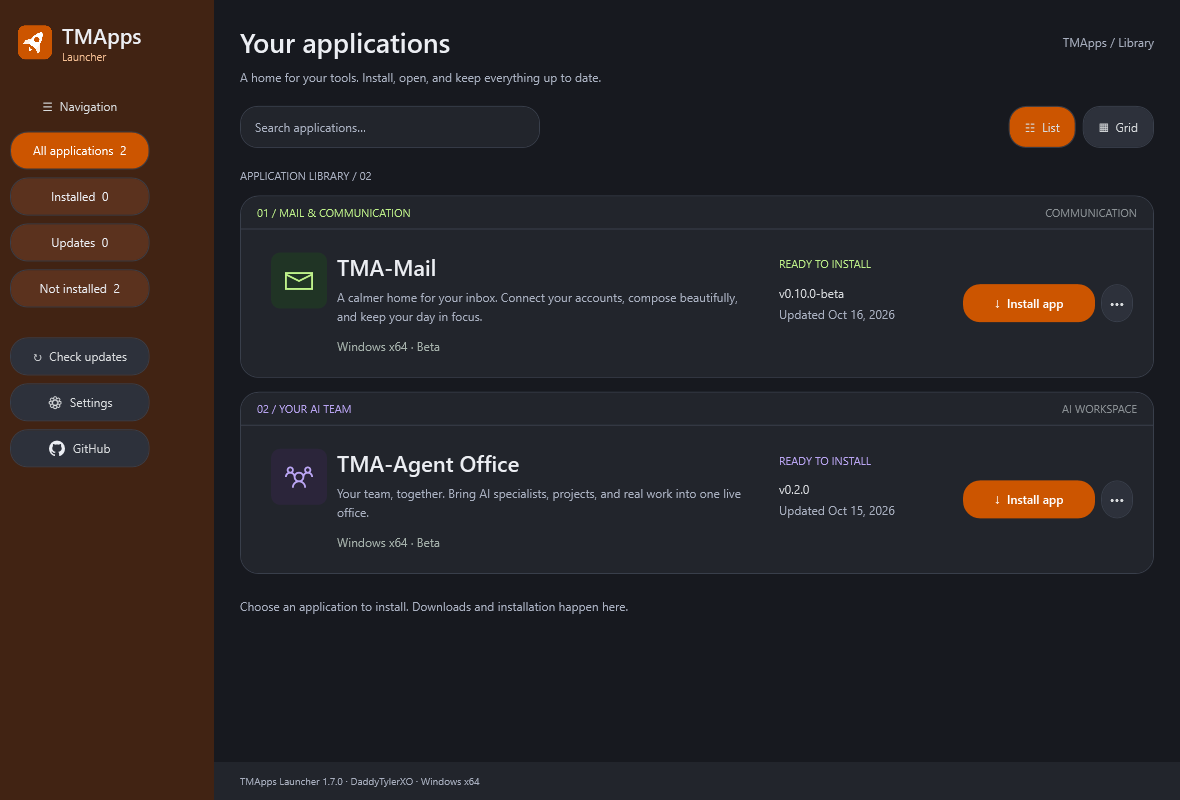
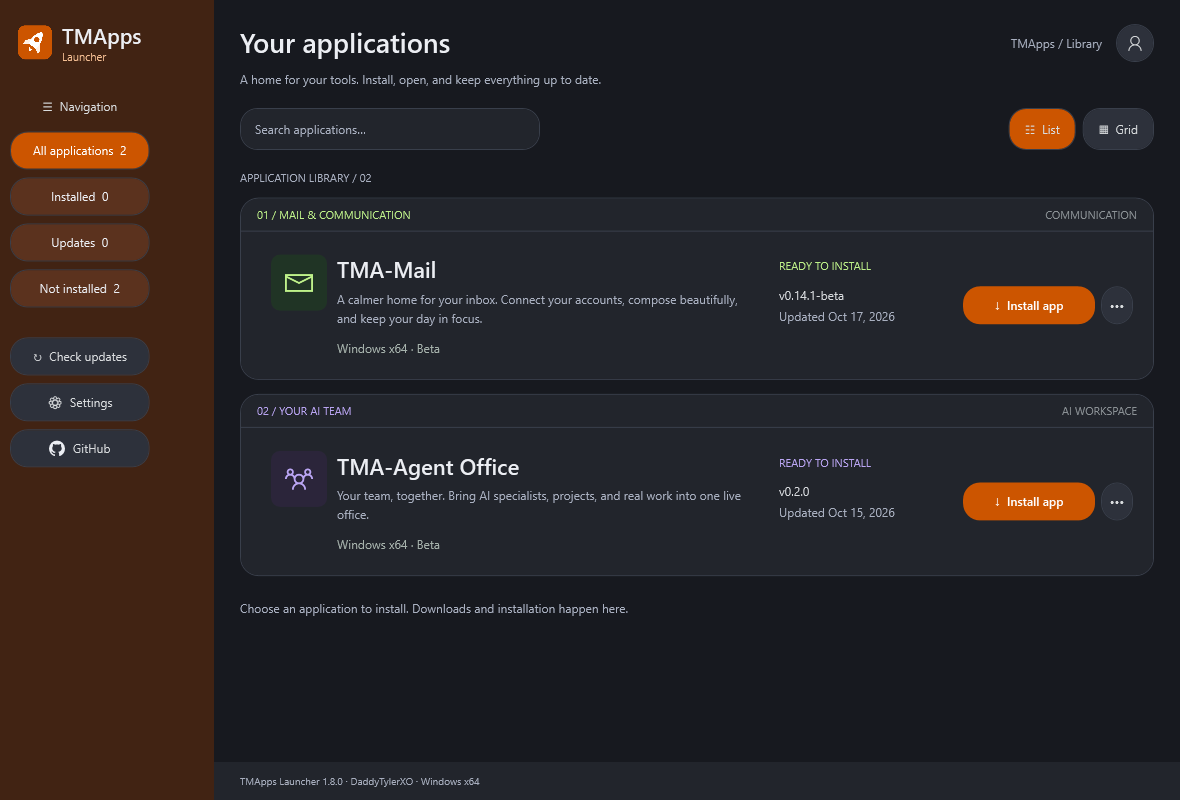
Add optional suite profile and local TMA-Mail identity sync

diff --git a/src/MainWindow.xaml b/src/MainWindow.xaml
@@ -62,7 +62,7 @@
   <Grid>
    <Grid.RowDefinitions><RowDefinition Height="Auto"/><RowDefinition Height="*"/><RowDefinition Height="38"/></Grid.RowDefinitions>
    <StackPanel Margin="26,24,26,20">
-    <DockPanel><TextBlock Text="Your applications" FontSize="27" FontWeight="SemiBold"/><TextBlock Text="TMApps / Library" Foreground="#A9B0C0" VerticalAlignment="Center" HorizontalAlignment="Right"/></DockPanel>
+    <DockPanel LastChildFill="True"><Button x:Name="ProfileButton" DockPanel.Dock="Right" Width="38" Height="38" Padding="0" Margin="14,0,0,0" ToolTip="Your optional profile" AutomationProperties.Name="Your optional TMApps profile"><Button.Template><ControlTemplate TargetType="Button"><Border CornerRadius="19" Background="{TemplateBinding Background}" BorderBrush="{TemplateBinding BorderBrush}" BorderThickness="1"><ContentPresenter HorizontalAlignment="Center" VerticalAlignment="Center"/></Border><ControlTemplate.Triggers><Trigger Property="IsMouseOver" Value="True"><Setter Property="BorderBrush" Value="#CC5500"/></Trigger><Trigger Property="IsKeyboardFocused" Value="True"><Setter Property="BorderBrush" Value="#CC5500"/></Trigger></ControlTemplate.Triggers></ControlTemplate></Button.Template><TextBlock x:Name="ProfileInitial" Text="&#xE77B;" FontFamily="Segoe MDL2 Assets" FontSize="15"/></Button><TextBlock Text="TMApps / Library" DockPanel.Dock="Right" Foreground="#A9B0C0" VerticalAlignment="Center"/><TextBlock Text="Your applications" FontSize="27" FontWeight="SemiBold"/></DockPanel>
     <TextBlock Text="A home for your tools. Install, open, and keep everything up to date." Foreground="#A9B0C0" FontSize="12" Margin="0,9,0,21"/>
     <Grid Height="42"><Grid.ColumnDefinitions><ColumnDefinition/><ColumnDefinition Width="Auto"/></Grid.ColumnDefinitions>
      <Grid Margin="0,0,20,0" MaxWidth="360" HorizontalAlignment="Left" Width="300"><TextBox x:Name="Search" ToolTip="Search applications" AutomationProperties.Name="Search applications"/><TextBlock Text="Search applications…" Foreground="#A9B0C0" VerticalAlignment="Center" Margin="15,0" IsHitTestVisible="False"><TextBlock.Style><Style TargetType="TextBlock"><Setter Property="Visibility" Value="Collapsed"/><Style.Triggers><DataTrigger Binding="{Binding Text, ElementName=Search}" Value=""><Setter Property="Visibility" Value="Visible"/></DataTrigger></Style.Triggers></Style></TextBlock.Style></TextBlock></Grid>
@@ -75,7 +75,7 @@
     <TextBlock x:Name="Empty" Text="No applications match this view." Foreground="#A9B0C0" Visibility="Collapsed" Margin="0,25"/>
     <TextBlock x:Name="Notice" Text="Choose an application to install." Foreground="#A9B0C0" TextWrapping="Wrap" FontSize="12" Margin="0,10,0,0"/>
    </StackPanel></ScrollViewer>
-   <Border Grid.Row="2" Background="#22252C" Padding="26,0"><TextBlock x:Name="Footer" Text="TMApps Launcher 1.7.0 · DaddyTylerXO · Windows x64" Foreground="#A9B0C0" FontSize="10" VerticalAlignment="Center"/></Border>
+   <Border Grid.Row="2" Background="#22252C" Padding="26,0"><TextBlock x:Name="Footer" Text="TMApps Launcher 1.8.0 · DaddyTylerXO · Windows x64" Foreground="#A9B0C0" FontSize="10" VerticalAlignment="Center"/></Border>
   </Grid>
  </DockPanel>
 </Window>

diff --git a/tests/Tests.cs b/tests/Tests.cs
@@ -34,7 +34,7 @@ namespace TMApps {
             public LauncherRelease Release; public byte[] Installer; public bool FailManifest; public int Downloads;
             protected override Task<HttpResponseMessage> SendAsync(HttpRequestMessage request,CancellationToken token) {
                 token.ThrowIfCancellationRequested(); string path=request.RequestUri.AbsolutePath;
-                if(path.EndsWith("/releases/tags/tma-apps")) return Task.FromResult(new HttpResponseMessage(HttpStatusCode.OK) { Content=new StringContent("{\"assets\":[{\"name\":\"launcher-update.json\",\"id\":10},{\"name\":\"TMApps-Launcher-Setup-1.7.0.exe\",\"id\":11}]}") });
+                if(path.EndsWith("/releases/tags/tma-apps")) return Task.FromResult(new HttpResponseMessage(HttpStatusCode.OK) { Content=new StringContent("{\"assets\":[{\"name\":\"launcher-update.json\",\"id\":10},{\"name\":\"TMApps-Launcher-Setup-1.8.0.exe\",\"id\":11}]}") });
                 bool manifest=path.EndsWith("launcher-update.json") || path.EndsWith("/assets/10");
                 if(manifest) return Task.FromResult(new HttpResponseMessage(FailManifest ? HttpStatusCode.ServiceUnavailable : HttpStatusCode.OK) { Content=new StringContent(LauncherService.Json.Serialize(Release)) });
                 Downloads++;
@@ -124,6 +124,7 @@ namespace TMApps {
                 string staleCatalog=original.Replace(catalog.apps[0].version,"0.9.2-beta");
                 var updateHandler=new CatalogHandler { Shared=staleCatalog };
                 using(var updates=new LauncherService(Path.Combine(root,"updates"),updateHandler)) {
+                    LauncherService.AtomicWrite(Path.Combine(root,"updates","catalog.json"),staleCatalog);
                     var refreshed=updates.Refresh(CancellationToken.None).GetAwaiter().GetResult(); var mail=refreshed.apps.First(a=>a.id=="tma-mail");
                     Check(mail.version=="0.10.0-beta" && mail.sha256==new string('b',64) && mail.downloadUrl.Contains(new string('a',40)),"Branch manifest discovers Mail 0.10 with commit-pinned archive and checksum despite stale shared catalog");
                     updateHandler.Shared=staleCatalog.Replace("0.9.2-beta","9.0.0");
@@ -139,6 +140,7 @@ namespace TMApps {
                 }
                 var branchOnly=new CatalogHandler { FailShared=true,Shared=staleCatalog };
                 using(var updates=new LauncherService(Path.Combine(root,"branch-only"),branchOnly)) {
+                    LauncherService.AtomicWrite(Path.Combine(root,"branch-only","catalog.json"),staleCatalog);
                     Check(updates.Refresh(CancellationToken.None).GetAwaiter().GetResult().apps[0].version=="0.10.0-beta","Mail branch can refresh when shared release catalog is unavailable");
                     branchOnly.FailBranch=true; Reject(()=>updates.Refresh(CancellationToken.None).GetAwaiter().GetResult(),"Failed update sources never report a successful check");
                 }
@@ -290,20 +292,20 @@ namespace TMApps {
                 string shortcut=Path.Combine(standalone,"Launcher.lnk"); DesktopIntegration.CreateShortcut(shortcut,exe);
                 Check(File.Exists(shortcut) && BitConverter.ToInt32(File.ReadAllBytes(shortcut),0)==76,"Windows desktop/Start menu shortcut helper creates a real shell link");
                 Check(DesktopIntegration.ShortcutTargets(shortcut,exe),"Desktop shortcut target can be verified before removing a launcher-managed icon");
-                Check(new AppView { Info = catalog.apps[0] }.UpdatedLabel == "Oct 16, 2026", "App update date displayed from metadata");
+                Check(new AppView { Info = new AppInfo { updatedAt="2026-10-16T22:53:40Z" } }.UpdatedLabel == "Oct 16, 2026", "App update date displayed from metadata");
                 using (var embedded = new LauncherService(Path.Combine(root,"embedded-profile"))) Check(embedded.LoadCatalog().apps.Count == 2, "Embedded catalog fallback works without source files");
                 string installerRoot=Path.Combine(root,"installer");
                 var installStart=new System.Diagnostics.ProcessStartInfo(Path.Combine(args[0],"build","TMApps-Launcher-Setup.exe"),"--verify-install \""+installerRoot+"\"") { UseShellExecute=false,CreateNoWindow=true };
                 using(var process=System.Diagnostics.Process.Start(installStart)) { if(!process.WaitForExit(20000)) { process.Kill(); throw new Exception("Installer verification timed out"); } Check(process.ExitCode==0 && File.ReadAllText(Path.Combine(installerRoot,"installer-report.txt")).StartsWith("OK:"),"Real installer writes payload, saves options, launches installed EXE, and preserves data on uninstall"); }
                 byte[] installerBytes=File.ReadAllBytes(Path.Combine(args[0],"build","TMApps-Launcher-Setup.exe"));
                 string setupHash; using(var sha=SHA256.Create()) setupHash=BitConverter.ToString(sha.ComputeHash(installerBytes)).Replace("-","").ToLowerInvariant();
-                var release=new LauncherRelease { schemaVersion=1,version="1.7.0",downloadUrl="https://github.com/DaddyTylerXO/TMApps/releases/download/tma-apps/TMApps-Launcher-Setup-1.7.0.exe",sha256=setupHash };
+                var release=new LauncherRelease { schemaVersion=1,version="1.8.0",downloadUrl="https://github.com/DaddyTylerXO/TMApps/releases/download/tma-apps/TMApps-Launcher-Setup-1.8.0.exe",sha256=setupHash };
                 var launcherHandler=new LauncherUpdateHandler { Release=release,Installer=installerBytes };
                 using(var updater=new LauncherService(Path.Combine(root,"launcher-updates"),launcherHandler)) {
-                    Check(updater.CheckLauncherUpdate("1.6.0",CancellationToken.None).GetAwaiter().GetResult().version=="1.7.0","Launcher check discovers a newer launcher independently of app catalog");
-                    Check(updater.CheckLauncherUpdate("1.7.0",CancellationToken.None).GetAwaiter().GetResult()==null && updater.CheckLauncherUpdate("1.8.0",CancellationToken.None).GetAwaiter().GetResult()==null,"Launcher check skips current versions and never downgrades");
+                    Check(updater.CheckLauncherUpdate("1.6.0",CancellationToken.None).GetAwaiter().GetResult().version=="1.8.0","Launcher check discovers a newer launcher independently of app catalog");
+                    Check(updater.CheckLauncherUpdate("1.8.0",CancellationToken.None).GetAwaiter().GetResult()==null && updater.CheckLauncherUpdate("1.9.0",CancellationToken.None).GetAwaiter().GetResult()==null,"Launcher check skips current versions and never downgrades");
                     string downloaded=updater.DownloadLauncherUpdate(release,new QuietProgress(),CancellationToken.None).GetAwaiter().GetResult();
-                    Check(File.Exists(downloaded) && System.Diagnostics.FileVersionInfo.GetVersionInfo(downloaded).FileVersion=="1.7.0.0","Launcher installer download verifies checksum and embedded product version");
+                    Check(File.Exists(downloaded) && System.Diagnostics.FileVersionInfo.GetVersionInfo(downloaded).FileVersion=="1.8.0.0","Launcher installer download verifies checksum and embedded product version");
                     File.Delete(downloaded);
                     launcherHandler.Installer=new byte[]{1,2,3};
                     Reject(()=>updater.DownloadLauncherUpdate(release,new QuietProgress(),CancellationToken.None).GetAwaiter().GetResult(),"Corrupted launcher installer cannot be executed");
@@ -341,6 +343,16 @@ namespace TMApps {
                     var end=DateTime.UtcNow.AddSeconds(10); while(!File.Exists(Path.Combine(handoffRoot,"handoff-report.txt")) && DateTime.UtcNow<end) Thread.Sleep(50);
                     Check(File.Exists(Path.Combine(handoffRoot,"handoff-report.txt")),"Updater waits for parent launcher exit before applying changes");
                 }
+                string sharedPath=Path.Combine(root,"shared-suite","profile.json");
+                Check(TMAppsShared.SuiteProfileStore.Load(sharedPath).emails.Count==0,"Optional profile starts empty without creating a shared file");
+                var suiteFixture=TMAppsShared.SuiteProfileStore.Save(sharedPath,new TMAppsShared.SuiteProfile { displayName="  Example User  ",emails=new System.Collections.Generic.List<string> { "first@example.com","FIRST@example.com","second@example.org" },shareWithMail=true });
+                Check(suiteFixture.displayName=="Example User" && suiteFixture.emails.Count==2 && suiteFixture.revision.Length==32,"Suite profile normalizes name, deduplicates addresses, and generates a sync revision");
+                var loadedProfile=TMAppsShared.SuiteProfileStore.Load(sharedPath);
+                Check(loadedProfile.shareWithMail && loadedProfile.emails[1]=="second@example.org","Shared suite profile saves and reloads multiple addresses");
+                Reject(()=>TMAppsShared.SuiteProfileStore.Save(sharedPath,new TMAppsShared.SuiteProfile { emails=new System.Collections.Generic.List<string> { "invalid address" } }),"Profile rejects invalid emails before writing");
+                Check(TMAppsShared.SuiteProfileStore.Load(sharedPath).revision==suiteFixture.revision,"Rejected profile edit retains the previous saved profile");
+                Reject(()=>TMAppsShared.SuiteProfileStore.Validate(new TMAppsShared.SuiteProfile { displayName="Bad\nName" }),"Profile rejects control characters in names");
+                Check(!File.ReadAllText(sharedPath).Contains("password") && !File.ReadAllText(sharedPath).Contains("token"),"Shared profile contract contains no passwords or auth tokens");
                 var application = new LauncherApplication();
                 SynchronizationContext.SetSynchronizationContext(new System.Windows.Threading.DispatcherSynchronizationContext(System.Windows.Threading.Dispatcher.CurrentDispatcher));
                 string uiRoot=Path.Combine(root,"ui-profile"); Directory.CreateDirectory(uiRoot);
@@ -425,6 +437,23 @@ namespace TMApps {
                 PumpUntil(()=>uiHandler.LauncherChecks>0 && checkUpdates.IsEnabled);
                 Check(launcherPromptSeen,"Real Check for updates button offers a newer launcher in a themed popup");
                 Check(!Directory.Exists(Path.Combine(uiRoot,"updates")),"Declining launcher update performs no installer download");
+                System.Windows.Threading.Dispatcher.CurrentDispatcher.BeginInvoke(new Action(()=> {
+                    var popup=application.Windows.OfType<ThemedDialog>().Single();
+                    popup.Body.Children.OfType<TextBox>().First().Text="Example User";
+                    popup.Body.Children.OfType<TextBox>().Last().Text="first@example.com\nsecond@example.org";
+                    SaveDialog(popup,Path.Combine(args[0],"build","profile-preview.png"));
+                    popup.Actions.Children.OfType<Button>().Last().RaiseEvent(new RoutedEventArgs(Button.ClickEvent));
+                }));
+                var profileButton=(Button)window.FindName("ProfileButton"); profileButton.RaiseEvent(new RoutedEventArgs(Button.ClickEvent,profileButton));
+                var savedProfile=TMAppsShared.SuiteProfileStore.Load(Path.Combine(uiRoot,"shared-profile.json"));
+                Check(savedProfile.displayName=="Example User" && savedProfile.emails.Count==2 && savedProfile.shareWithMail,"Real profile icon opens optional editor and saves the shared profile");
+                Check(((TextBlock)window.FindName("ProfileInitial")).Text=="E","Top-right profile avatar shows the saved name initial");
+                System.Windows.Threading.Dispatcher.CurrentDispatcher.BeginInvoke(new Action(()=> {
+                    var popup=application.Windows.OfType<ThemedDialog>().Single(); popup.Body.Children.OfType<TextBox>().First().Text="Cancelled edit";
+                    popup.Actions.Children.OfType<Button>().First().RaiseEvent(new RoutedEventArgs(Button.ClickEvent));
+                }));
+                profileButton.RaiseEvent(new RoutedEventArgs(Button.ClickEvent,profileButton));
+                Check(TMAppsShared.SuiteProfileStore.Load(Path.Combine(uiRoot,"shared-profile.json")).revision==savedProfile.revision,"Cancelling profile edits leaves sync state unchanged");
                 Console.WriteLine(count + " checks passed. Preview: build/launcher-preview.png");
                 window.Close(); application.Shutdown(); return 0;
             } catch(Exception ex) { Console.Error.WriteLine(ex); return 1; }

diff --git a/src/App.cs b/src/App.cs
@@ -10,8 +10,8 @@ using System.Windows.Controls;
 using System.Windows.Markup;
 using System.Windows.Media;
 
-[assembly: System.Reflection.AssemblyVersion("1.7.0.0")]
-[assembly: System.Reflection.AssemblyFileVersion("1.7.0.0")]
+[assembly: System.Reflection.AssemblyVersion("1.8.0.0")]
+[assembly: System.Reflection.AssemblyFileVersion("1.8.0.0")]
 [assembly: System.Reflection.AssemblyProduct("TMApps Launcher")]
 [assembly: System.Reflection.AssemblyCompany("DaddyTylerXO")]
 [assembly: System.Reflection.AssemblyCopyright("Copyright © DaddyTylerXO 2026")]
@@ -38,6 +38,7 @@ namespace TMApps {
         System.Windows.Forms.NotifyIcon tray; bool quitting; bool trayNoticeShown;
         EventWaitHandle showEvent; RegisteredWaitHandle showRegistration;
         Func<AppInfo,AppInstallOptions> chooseInstallLocation;
+        string suiteProfilePath; TMAppsShared.SuiteProfile suiteProfile; string suiteProfileWarning;
         string filter = "all"; bool listView = true; bool refreshing; bool selfUpdating; readonly CancellationTokenSource lifetime = new CancellationTokenSource();
         T Find<T>(string name) where T : FrameworkElement { return (T)window.FindName(name); }
         [STAThread] public static void Main(string[] args) {
@@ -69,6 +70,8 @@ namespace TMApps {
         internal Window Initialize(string root, System.Net.Http.HttpMessageHandler handler, bool desktop, Func<AppInfo,AppInstallOptions> locationPicker = null, IAppIntegration appIntegration = null) {
             service = new LauncherService(root, handler,appIntegration);
             chooseInstallLocation=locationPicker ?? new Func<AppInfo,AppInstallOptions>(PromptInstallLocation);
+            suiteProfilePath=desktop ? TMAppsShared.SuiteProfileStore.DefaultPath : Path.Combine(root,"shared-profile.json");
+            try { suiteProfile=TMAppsShared.SuiteProfileStore.Load(suiteProfilePath); } catch { suiteProfile=new TMAppsShared.SuiteProfile(); suiteProfileWarning="The saved profile could not be read. You can replace it by saving a new profile."; }
             preferences = DesktopIntegration.LoadPreferences(root);
             window = (Window)XamlReader.Parse(CleanXaml(Bundled.Read("MainWindow.xaml"))); MainWindow = window;
             using (var icon = typeof(Bundled).Assembly.GetManifestResourceStream("TMApps.launcher.ico")) {
@@ -79,6 +82,7 @@ namespace TMApps {
             Find<TextBox>("Search").TextChanged += (s, ev) => Render();
             apps = service.LoadCatalog().apps.Select(a => new AppView { Info = a }).ToList();
             ApplyNavigation(window, preferences); ApplyView(window, preferences.libraryView); listView = preferences.libraryView == "List";
+            UpdateProfileAvatar();
             Render(); Notice("Choose an application to install. Downloads and installation happen here.");
             if (desktop) {
                 SetupTray();
@@ -271,6 +275,7 @@ namespace TMApps {
             e.Handled=true;
             string name = b.Name; string tag = b.Tag as string;
             if(name=="CompactButton") { preferences.compactNavigation=!preferences.compactNavigation; ApplyNavigation(window,preferences); Render(); DesktopIntegration.SavePreferences(service.Root,preferences); return; }
+            if(name=="ProfileButton") { ShowProfile(); return; }
             if(name=="SettingsButton") { Settings(); return; }
             if(name=="GitHubButton") { Browse("https://github.com/DaddyTylerXO/TMApps/tree/TMApps-Launcher"); return; }
             if (name == "RefreshButton") { RefreshCatalog(); return; }
@@ -324,6 +329,32 @@ namespace TMApps {
             } catch(OperationCanceledException) { Notice("Uninstall cancelled."); }
             catch(Exception ex) { ThemedDialogs.Info(window,"Could not uninstall "+app.Name,ex.Message); Notice(ex.Message); }
             finally { app.Busy=false; app.Removing=false; app.Cancellation.Dispose(); app.Cancellation=null; Render(); }
+        }
+        void UpdateProfileAvatar() {
+            string value=!String.IsNullOrWhiteSpace(suiteProfile.displayName) ? suiteProfile.displayName : suiteProfile.emails.FirstOrDefault();
+            var initial=Find<TextBlock>("ProfileInitial");
+            initial.Text=String.IsNullOrEmpty(value) ? "\uE77B" : System.Globalization.StringInfo.GetNextTextElement(value).ToUpperInvariant();
+            initial.FontFamily=new FontFamily(String.IsNullOrEmpty(value) ? "Segoe MDL2 Assets" : "Segoe UI");
+            Find<Button>("ProfileButton").ToolTip=String.IsNullOrEmpty(value) ? "Set up your optional profile" : value+" - Your profile";
+        }
+        internal void ShowProfile() {
+            var dialog=new ThemedDialog(window,"Your TMApps profile","Optional. Save your name and email addresses for your apps on this PC. The first email address is your primary suggestion.");
+            Action<string> label=text=>dialog.Body.Children.Add(new TextBlock { Text=text,FontWeight=FontWeights.SemiBold,Margin=new Thickness(0,10,0,7) });
+            label("Your name"); var name=new TextBox { Name="ProfileName",Text=suiteProfile.displayName,MaxLength=100 }; dialog.Body.Children.Add(name);
+            label("Email addresses (one per line)"); var emails=new TextBox { Name="ProfileEmails",Text=String.Join("\r\n",suiteProfile.emails),AcceptsReturn=true,Height=100,VerticalScrollBarVisibility=ScrollBarVisibility.Auto }; dialog.Body.Children.Add(emails);
+            var share=new CheckBox { Name="ShareWithMail",Content="Sync this profile to TMA-Mail on this PC",IsChecked=suiteProfile.revision==null || suiteProfile.shareWithMail,Margin=new Thickness(0,18,0,12) }; dialog.Body.Children.Add(share);
+            dialog.Body.Children.Add(new TextBlock { Text="This shares only your name and email addresses with TMA-Mail for this Windows user. It does not sign in or connect accounts. TMA-Mail still requires an app-specific password/key for providers such as iCloud, or the provider's own sign-in. Enter those credentials in TMA-Mail, never here.",TextWrapping=TextWrapping.Wrap,Foreground=Brushes.LightGray,FontSize=12 });
+            dialog.Body.Children.Add(new TextBlock { Text="Requires TMA-Mail 0.14.1 or later. Changes appear when Mail opens or shortly afterward while it is running. Disabling sync stops future sharing; it does not disconnect mail accounts or erase an existing Mail profile.",TextWrapping=TextWrapping.Wrap,Foreground=Brushes.LightGray,FontSize=11,Margin=new Thickness(0,10,0,0) });
+            var error=new TextBlock { Text=suiteProfileWarning,TextWrapping=TextWrapping.Wrap,Foreground=Brushes.LightSalmon,Margin=new Thickness(0,8,0,0) }; dialog.Body.Children.Add(error);
+            dialog.AddAction("Cancel",false,()=>dialog.Close(),"CancelAction").IsCancel=true;
+            dialog.AddAction("Save profile",true,()=> {
+                try {
+                    var selected=new TMAppsShared.SuiteProfile { displayName=name.Text,emails=emails.Text.Split(new[]{'\r','\n'},StringSplitOptions.RemoveEmptyEntries).ToList(),shareWithMail=share.IsChecked==true };
+                    suiteProfile=TMAppsShared.SuiteProfileStore.Save(suiteProfilePath,selected); suiteProfileWarning=null; UpdateProfileAvatar(); dialog.DialogResult=true;
+                    Notice(suiteProfile.shareWithMail ? "Profile saved. Compatible TMA-Mail versions will sync your name and account suggestions. Credentials are still required in Mail." : "Profile saved. Sync to TMA-Mail is off.");
+                } catch(Exception ex) { error.Text=ex.Message; }
+            },"ConfirmAction");
+            dialog.ShowDialog();
         }
         void Settings() {
             var original=LauncherService.Json.Deserialize<Preferences>(LauncherService.Json.Serialize(preferences));

diff --git a/src/Setup.cs b/src/Setup.cs
@@ -9,8 +9,8 @@ using System.Windows;
 using System.Windows.Controls;
 using System.Windows.Markup;
 
-[assembly: AssemblyVersion("1.7.0.0")]
-[assembly: AssemblyFileVersion("1.7.0.0")]
+[assembly: AssemblyVersion("1.8.0.0")]
+[assembly: AssemblyFileVersion("1.8.0.0")]
 [assembly: AssemblyCompany("DaddyTylerXO")]
 [assembly: AssemblyProduct("TMApps Launcher Setup")]
 
@@ -75,7 +75,7 @@ namespace TMApps {
                     if(!saved.runAtStartup || saved.desktopShortcut || !saved.closeToTray) throw new Exception("Installer options were not saved.");
                     string launcher=Path.Combine(root,"Custom Launcher Location","TMApps-Launcher.exe");
                     var version=FileVersionInfo.GetVersionInfo(launcher);
-                    if(version.FileVersion!="1.7.0.0") throw new Exception("Incorrect launcher payload version.");
+                    if(version.FileVersion!="1.8.0.0") throw new Exception("Incorrect launcher payload version.");
                     string preserved=Path.Combine(root,"profile","keep.txt"); File.WriteAllText(preserved,"kept through update");
                     // Exercise the same atomic replacement used by an in-place self-update.
                     Install(Path.Combine(root,"Custom Launcher Location"),Path.Combine(root,"profile"),saved,false);
@@ -117,7 +117,7 @@ namespace TMApps {
             var window=(Window)XamlReader.Parse(@"<Window xmlns='http://schemas.microsoft.com/winfx/2006/xaml/presentation' xmlns:x='http://schemas.microsoft.com/winfx/2006/xaml' Title='Install TMApps Launcher' Width='640' Height='780' ResizeMode='NoResize' WindowStartupLocation='CenterScreen' Background='#17191F' Foreground='#ECEEF3' FontFamily='Segoe UI'>
               <Window.Resources><Style TargetType='Button'><Setter Property='Foreground' Value='White'/><Setter Property='Background' Value='#CC5500'/><Setter Property='Padding' Value='22,12'/><Setter Property='Template'><Setter.Value><ControlTemplate TargetType='Button'><Border CornerRadius='18' Background='{TemplateBinding Background}' Padding='{TemplateBinding Padding}'><ContentPresenter HorizontalAlignment='Center'/></Border><ControlTemplate.Triggers><Trigger Property='IsMouseOver' Value='True'><Setter Property='Opacity' Value='0.8'/></Trigger><Trigger Property='IsEnabled' Value='False'><Setter Property='Opacity' Value='0.4'/></Trigger></ControlTemplate.Triggers></ControlTemplate></Setter.Value></Setter></Style><Style TargetType='CheckBox'><Setter Property='Foreground' Value='#ECEEF3'/><Setter Property='Margin' Value='0,11'/><Setter Property='FontSize' Value='13'/></Style></Window.Resources>
               <Grid Margin='30' Background='#17191F'><Grid.RowDefinitions><RowDefinition Height='*'/><RowDefinition Height='Auto'/></Grid.RowDefinitions><StackPanel>
-                <StackPanel Orientation='Horizontal'><Image x:Name='Rocket' Width='56' Height='56' Margin='0,0,16,0'/><StackPanel><TextBlock Text='TMApps Launcher' FontSize='26' FontWeight='SemiBold'/><TextBlock Text='Setup · DaddyTylerXO · 1.7.0' Foreground='#A9B0C0' Margin='0,6,0,0'/></StackPanel></StackPanel>
+                <StackPanel Orientation='Horizontal'><Image x:Name='Rocket' Width='56' Height='56' Margin='0,0,16,0'/><StackPanel><TextBlock Text='TMApps Launcher' FontSize='26' FontWeight='SemiBold'/><TextBlock Text='Setup · DaddyTylerXO · 1.8.0' Foreground='#A9B0C0' Margin='0,6,0,0'/></StackPanel></StackPanel>
                 <TextBlock Text='Make it yours.' FontSize='23' Margin='0,27,0,8'/><TextBlock Text='Install once. Discover, install, and update your TMApps from one home.' TextWrapping='Wrap' Foreground='#A9B0C0' LineHeight='21'/>
                 <Border Background='#22252C' CornerRadius='17' Padding='18' Margin='0,20,0,12'><StackPanel><CheckBox x:Name='Startup' Content='Open when I sign in to Windows'/><CheckBox x:Name='Desktop' Content='Create a desktop icon'/><CheckBox x:Name='Tray' Content='Stay in the tray when the window is closed'/><CheckBox x:Name='Launch' Content='Open TMApps Launcher after installation' IsChecked='True'/></StackPanel></Border>
                 <TextBlock Text='Install location' FontWeight='SemiBold' Margin='0,0,0,8'/><DockPanel><Button x:Name='Browse' Content='Browse…' DockPanel.Dock='Right' Background='#2D313B' Padding='14,10' Margin='8,0,0,0'/><TextBox x:Name='Location' Padding='10' Background='#22252C' Foreground='#ECEEF3' BorderBrush='#393F4B'/></DockPanel><TextBlock Text='Choose an empty folder for the launcher. Your profile stays separate.' FontSize='11' Foreground='#A9B0C0' Margin='0,8,0,0'/><TextBlock x:Name='Status' Margin='0,12,0,0' Foreground='#FFC49D' TextWrapping='Wrap'/>

diff --git a/src/SuiteProfile.cs b/src/SuiteProfile.cs
@@ -1,0 +1,54 @@
+using System;
+using System.Collections.Generic;
+using System.IO;
+using System.Linq;
+using System.Net.Mail;
+using System.Text;
+using System.Web.Script.Serialization;
+
+namespace TMAppsShared {
+    // Shared, credential-free contract consumed by TMApps Launcher and TMA-Mail.
+    public sealed class SuiteProfile {
+        public int schemaVersion { get; set; }
+        public string revision { get; set; }
+        public string displayName { get; set; }
+        public List<string> emails { get; set; }
+        public bool shareWithMail { get; set; }
+        public SuiteProfile() { schemaVersion=1; displayName=""; emails=new List<string>(); }
+    }
+    public static class SuiteProfileStore {
+        public static string DefaultPath { get { return Path.Combine(Environment.GetFolderPath(Environment.SpecialFolder.LocalApplicationData),"TMApps","profile.json"); } }
+        public static SuiteProfile Validate(SuiteProfile value) {
+            if(value==null || value.schemaVersion!=1) throw new FormatException("Unsupported profile format.");
+            value.displayName=(value.displayName ?? "").Trim();
+            if(value.displayName.Length>100 || value.displayName.Any(Char.IsControl)) throw new FormatException("Enter a name of up to 100 characters on one line.");
+            var addresses=value.emails ?? new List<string>();
+            if(addresses.Count>20) throw new FormatException("You can save up to 20 email addresses.");
+            value.emails=new List<string>();
+            foreach(string item in addresses) {
+                string email=(item ?? "").Trim(); if(email.Length==0) continue;
+                if(email.Length>254 || email.Any(Char.IsControl)) throw new FormatException("Enter a valid email address on each line.");
+                MailAddress parsed; try { parsed=new MailAddress(email); } catch { throw new FormatException("Enter a valid email address: "+email); }
+                if(!String.Equals(parsed.Address,email,StringComparison.OrdinalIgnoreCase) || !parsed.Host.Contains(".")) throw new FormatException("Enter a valid email address: "+email);
+                if(!value.emails.Contains(email,StringComparer.OrdinalIgnoreCase)) value.emails.Add(email);
+            }
+            if(value.revision!=null && value.revision.Length>80) throw new FormatException("Invalid profile revision.");
+            return value;
+        }
+        public static SuiteProfile Load(string path) {
+            if(!File.Exists(path)) return new SuiteProfile();
+            if(new FileInfo(path).Length>65536) throw new IOException("Profile file is too large.");
+            return Validate(new JavaScriptSerializer().Deserialize<SuiteProfile>(File.ReadAllText(path,Encoding.UTF8)));
+        }
+        public static SuiteProfile Save(string path,SuiteProfile value) {
+            value=Validate(value); value.revision=Guid.NewGuid().ToString("N");
+            Directory.CreateDirectory(Path.GetDirectoryName(Path.GetFullPath(path)));
+            string temporary=path+"."+Guid.NewGuid().ToString("N")+".tmp";
+            try {
+                File.WriteAllText(temporary,new JavaScriptSerializer().Serialize(value),new UTF8Encoding(false));
+                if(File.Exists(path)) File.Replace(temporary,path,null); else File.Move(temporary,path);
+            } finally { if(File.Exists(temporary)) File.Delete(temporary); }
+            return value;
+        }
+    }
+}

diff --git a/src/DesktopIntegration.cs b/src/DesktopIntegration.cs
@@ -72,7 +72,7 @@ namespace TMApps {
             string exe = Path.Combine(directory,"TMApps-Launcher.exe");
             CreateShortcut(Path.Combine(StartMenuDirectory,"TMApps Launcher.lnk"),exe);
             using(var key=Registry.CurrentUser.CreateSubKey(@"Software\Microsoft\Windows\CurrentVersion\Uninstall\TMAppsLauncher")) {
-                key.SetValue("DisplayName","TMApps Launcher"); key.SetValue("DisplayVersion","1.7.0"); key.SetValue("Publisher","DaddyTylerXO");
+                key.SetValue("DisplayName","TMApps Launcher"); key.SetValue("DisplayVersion","1.8.0"); key.SetValue("Publisher","DaddyTylerXO");
                 key.SetValue("InstallLocation",directory); key.SetValue("DisplayIcon",exe);
                 key.SetValue("UninstallString","\""+Path.Combine(directory,"Uninstall.exe")+"\" --uninstall");
                 key.SetValue("NoModify",1); key.SetValue("NoRepair",1);

diff --git a/src/Core.cs b/src/Core.cs
@@ -79,7 +79,7 @@ namespace TMApps {
             integration=appIntegration ?? new WindowsAppIntegration();
             processes=appProcesses ?? new WindowsAppProcesses(app=>InstallRoot(app,GetInstalled(app)));
             data=appData ?? new WindowsAppData();
-            http.DefaultRequestHeaders.UserAgent.ParseAdd("TMApps-Launcher/1.7");
+            http.DefaultRequestHeaders.UserAgent.ParseAdd("TMApps-Launcher/1.8");
             try { githubToken = Encoding.UTF8.GetString(ProtectedData.Unprotect(File.ReadAllBytes(Path.Combine(Root, "github-token.dat")), null, DataProtectionScope.CurrentUser)); } catch { }
         }
         public async Task<LauncherRelease> CheckLauncherUpdate(string currentVersion,CancellationToken token) {

diff --git a/README.md b/README.md
@@ -4,6 +4,20 @@ A Windows launcher for **TMA-Mail** and **TMA-Agent Office**, installed through 
 
 ![TMApps Launcher library](docs/launcher-preview.png)
 
+## Optional profile and TMA-Mail sync
+
+Click the circular **profile icon at the top right** to save a name and up to 20 email addresses, one per line. The first address is the primary suggestion. This setup is optional; the launcher works without a profile. The avatar shows your initial after saving.
+
+Enable **Sync this profile to TMA-Mail on this PC** to share the name and account-setup suggestions with **TMA-Mail 0.14.1 or later** for the current Windows user. Mail reads changes at startup and within a few seconds while running. Connected mailbox identities and credentials remain separate. This is local sharing, not cloud/device sync or a sign-in service.
+
+**A saved profile does not connect email accounts.** In TMA-Mail, choose the saved address and enter that provider's app-specific password/key (for example, iCloud) or complete its provider sign-in. The launcher does not ask for or transfer passwords, keys, or authentication tokens. The same explanation appears on the profile options page.
+
+Cancel discards profile edits. Disabling sync stops future sharing and removes Mail's imported address suggestions; an existing Mail display name and connected accounts remain. You can erase the launcher's saved name/addresses by clearing the fields, disabling sync, and saving.
+
+Shared profile data is stored at `%LOCALAPPDATA%\TMApps\profile.json`, separately from Mail's account store and the launcher installation. Custom Mail data profiles are isolated by default; `--launcher-profile <path>` explicitly opts one in for controlled use/testing.
+
+![Optional launcher profile](docs/profile-preview.png)
+
 ## Download and run
 
 Download [**TMApps-Launcher-Setup.exe**](https://github.com/DaddyTylerXO/TMApps/releases/download/tma-apps/TMApps-Launcher-Setup.exe) and run it. Setup installs the launcher for your Windows user, creates a Start menu entry, and adds a normal Windows Apps uninstall entry. No ZIP extraction, administrator access, or developer tools are needed. Requires Windows 10/11 x64 with .NET Framework 4.8. Builds are currently unsigned.

diff --git a/CHANGELOG.md b/CHANGELOG.md
@@ -1,5 +1,12 @@
 # Changelog
 
+## 1.8.0
+
+- Added an optional top-right profile avatar and themed editor for a name and multiple email addresses.
+- Added explicit opt-in local profile sharing with TMA-Mail 0.14.1 or later, using a credential-free shared contract.
+- Profile options explain that each mailbox still needs its own app-specific password/key or provider sign-in in Mail.
+- Added profile validation, save/cancel, avatar, and cross-app sync checks.
+
 ## 1.7.0
 
 - Check for updates now includes the launcher itself, independently of the application catalog.
